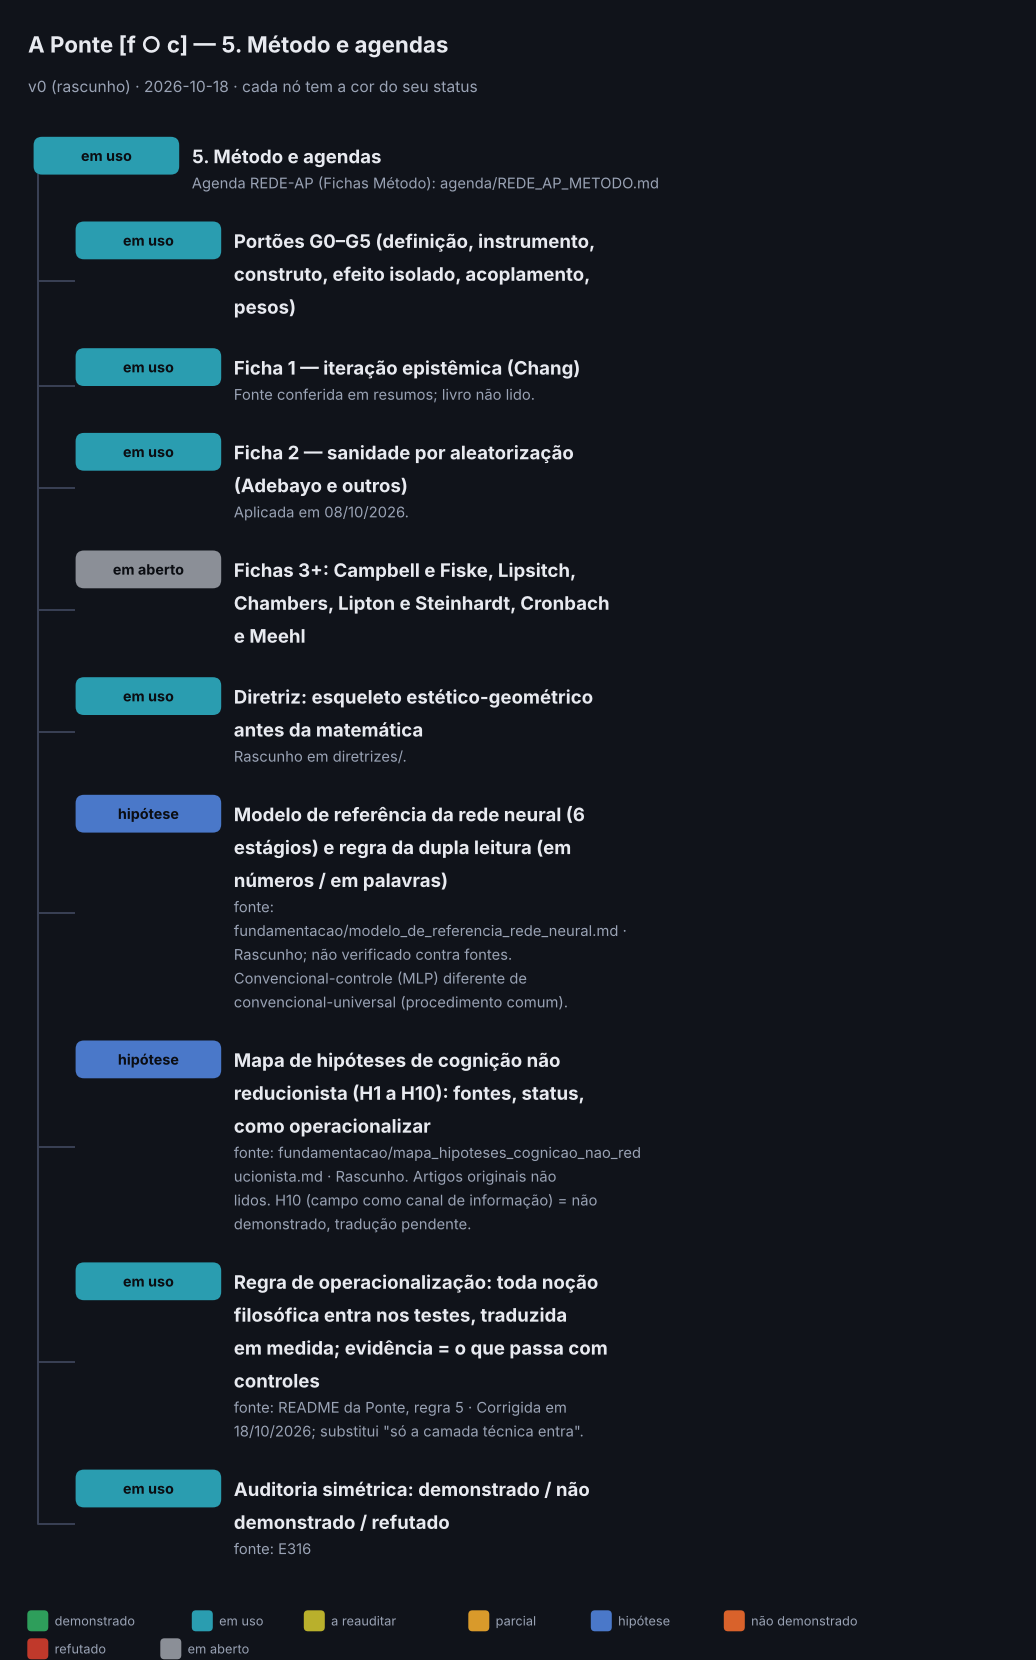
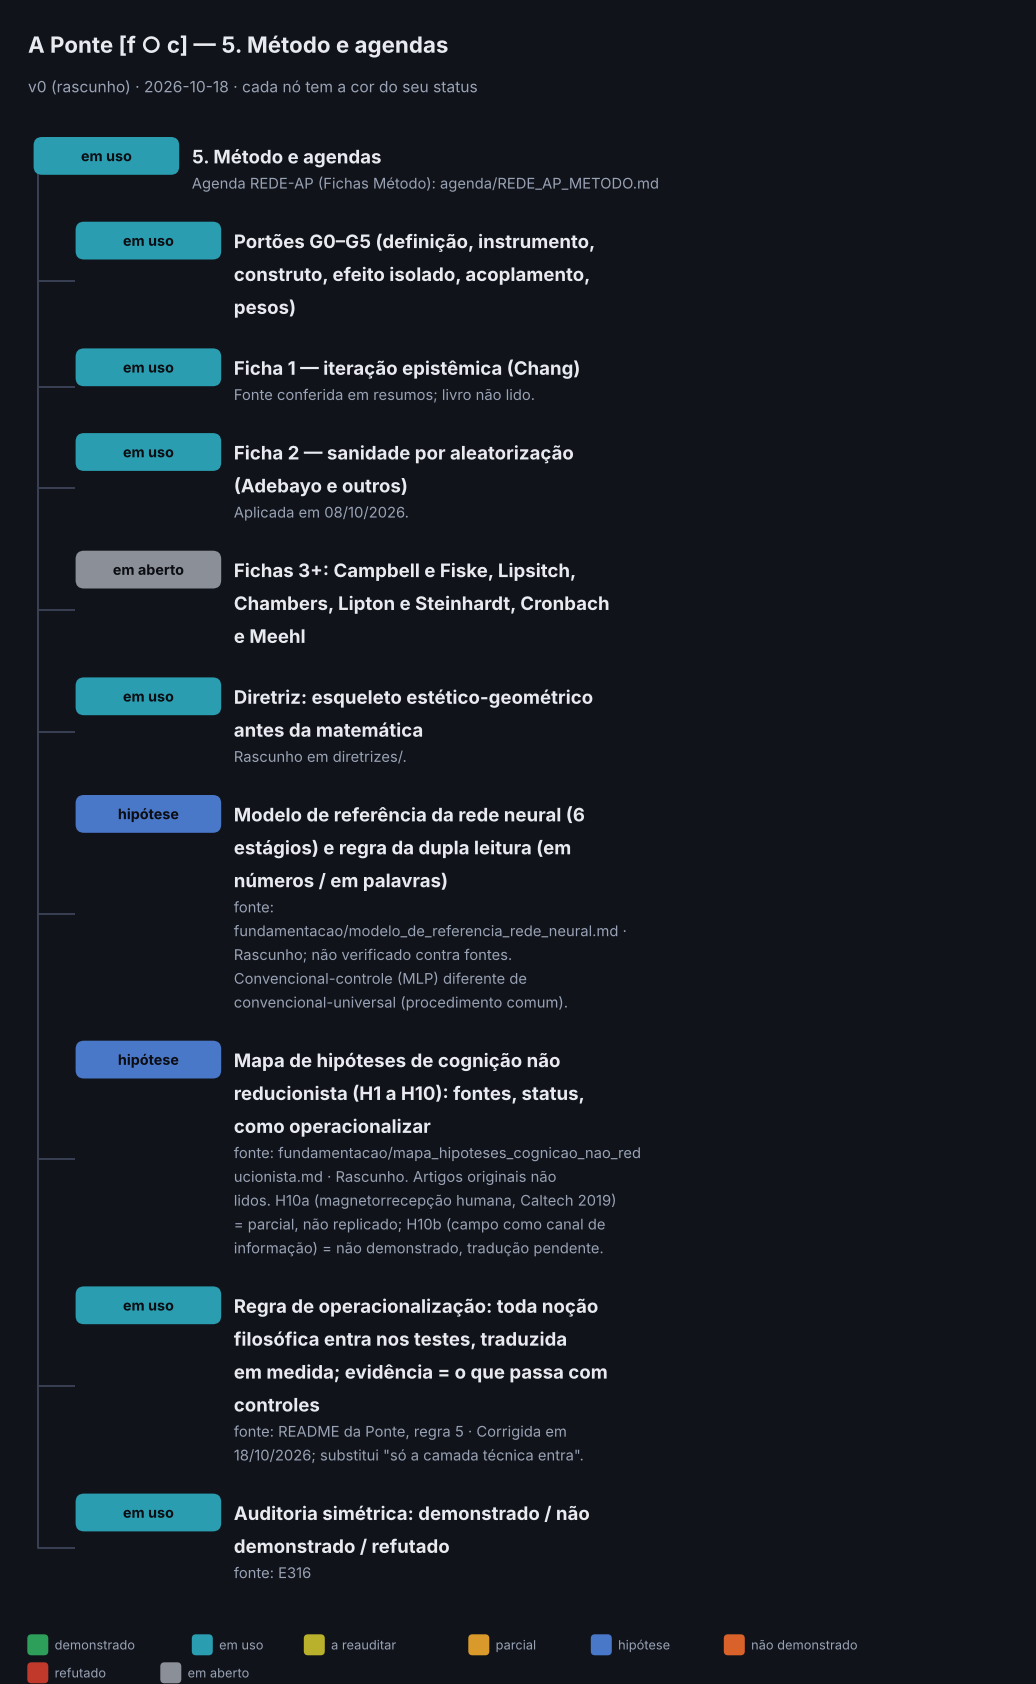
Mapa de hipóteses: H10 dividida em H10a (magnetorrecepção humana, Caltech 2019, parcial e não replicado) e H10b; busca de replicações sem resultado; pendências atualizadas
Claude-Session: https://claude.ai/code/session_01DUzMdkUTqHLsBPxo3q43kY

diff --git a/Ponte/fundamentacao/mapa_hipoteses_cognicao_nao_reducionista.md b/Ponte/fundamentacao/mapa_hipoteses_cognicao_nao_reducionista.md
@@ -1,6 +1,6 @@
 # Mapa de hipóteses: cognição, memória e campo além do cérebro-como-circuito
 
-**Status:** rascunho · **fontes conferidas em resumos de busca; os artigos originais NÃO foram lidos** (como na Ficha 1 do método) · classificação feita pelo assistente, a revisar pelo pesquisador
+**Status:** rascunho (atualizado em 18/10/2026: H10 dividida em H10a e H10b, com a magnetorrecepção da Caltech) · **fontes conferidas em resumos de busca; os artigos originais NÃO foram lidos** (como na Ficha 1 do método) · classificação feita pelo assistente, a revisar pelo pesquisador
 **Data:** 18 de outubro de 2026
 **Origem:** pedido do pesquisador (18/10/2026), depois da discussão sobre memória, campo e reducionismo (Entrada 323 e mensagens seguintes). O pesquisador apontou que o assistente reflete a literatura dominante e que isso pode ser um viés; este mapa responde conferindo fontes, uma a uma.
 **Ligações:** `../README.md` (regra de operacionalização) · `campo_organizador_entre_ambitos.md` · `modelo_de_referencia_rede_neural.md` · Entrada 323.
@@ -98,25 +98,38 @@ Estados usados (a auditoria simétrica do projeto, com dois intermediários):
 - **Status:** **não demonstrado**, com replicações negativas pré-registradas. **Não refutado em geral.**
 - **Fontes:** [Replicação no Goldsmiths](https://research.gold.ac.uk/id/eprint/7055) · [Artigo no PubMed Central](https://pmc.ncbi.nlm.nih.gov/articles/PMC3303812)
 
-### H10. O campo como canal de informação para insights e memórias (a hipótese do pesquisador)
+### H10a. O corpo humano tem receptores de campo ainda não identificados (magnetorrecepção)
+- **Afirma:** o cérebro humano responde a campos magnéticos do tamanho do campo da Terra, o que sugere um transdutor biológico ainda não conhecido (hipótese dos autores: cristais de magnetita biogênica).
+- **Evidência (Wang, Kirschvink, Shimojo e colegas, *eNeuro*, 2019, Caltech e Universidade de Tóquio):** 34 participantes; EEG durante rotações de um campo do tamanho do da Terra. A amplitude do alfa (8 a 13 Hz) **cai** depois de rotações horizontais em sentido **anti-horário**, **somente quando a componente vertical estática aponta para baixo** (a orientação do Hemisfério Norte); **não** houve resposta com a mesma rotação e a vertical para cima, nem com rotação horária, nem com campo fixo. O efeito depende da componente **estática** do campo, o que, segundo os autores, afasta a indução elétrica. Eles testaram o artefato de indução (flutuação de 10 a 40 μV durante a rotação de 100 ms) com experimentos com fantoma e dizem que ele não explica o efeito. O efeito apareceu **só em parte dos participantes**; a "replicação" foi **dentro do próprio estudo**, em quem respondeu forte. O artigo original **não foi lido por inteiro** (a leitura direta falhou na sessão); os detalhes vêm de resumos e da imprensa científica.
+- **Replicação independente:** **não encontrada** em duas buscas (2021 a 2025). **Crítica publicada:** **não encontrada** (só imprensa, que trata o resultado de forma mais forte do que o próprio artigo). Existe uma página do laboratório (Human Magnetic Reception Laboratory, Caltech) e o repositório do Caltech lista material suplementar; **dados abertos não verificados**.
+- **Hipótese de apoio:** magnetita no tecido cerebral humano. Kirschvink e colegas (*PNAS*, 1992) a relataram em tecido de cadáveres. O debate posterior é se ela é biogênica ou poluição de combustão (Maher e colegas, 2016, citado de memória, não conferido); um estudo mais recente (*Scientific Reports*) relata distribuição semelhante em vários cérebros, o que Kirschvink leu como indício contra contaminação simples (detalhes e ano não verificados).
+- **Status:** **parcial, não replicado.** Um indício real e fraco.
+- **O que não mostra:** o resultado é de **detecção de orientação de um campo físico conhecido** (como uma bússola). **Não é um canal de conteúdo** (insight, memória). O alfa cair é uma resposta **inespecífica** a muitos estímulos.
+- **Operacionalizar (proposta):** (a) pedir ou acompanhar uma **replicação independente** com os mesmos controles (direção oposta, vertical para cima, campo fixo, fantoma); (b) usar o **desenho de controle por assimetria** como modelo nos experimentos do projeto; (c) para a rede AP, o análogo é um teste de **sensibilidade direcional** a uma entrada que gira, com o controle de sentido oposto de mesma energia.
+- **Fontes:** [Wang e colegas, *eNeuro* 6(2), 2019](https://www.eneuro.org/content/6/2/ENEURO.0483-18.2019) · [Laboratório de Recepção Magnética Humana (Caltech)](https://maglab.caltech.edu/human-magnetic-reception-laboratory/) · [Registro no repositório do Caltech](https://authors.library.caltech.edu/records/whbb7-57e98) · [Kirschvink e colegas, 1992 (PNAS, PMC)](https://pmc.ncbi.nlm.nih.gov/articles/PMC49775)
+
+### H10b. Existe uma fonte de campo com conteúdo de informação (insight, memória) acessada pelo indivíduo (a hipótese do pesquisador)
 - **Afirma:** do mesmo modo que o Wi-Fi é um campo acessível pelo celular, o indivíduo acessa um campo do qual vêm informações (insight, intuição), mediante predisposição.
-- **Evidência:** **nenhum estudo direto encontrado nesta busca.** A analogia técnica é consistente em si (o Wi-Fi é um campo externo ao aparelho, com fonte e receptor conhecidos); falta o equivalente de **emissor e receptor** para o cérebro. H5 mostra sensibilidade do cérebro a campos fortes; H6 e H9 não sustentam efeitos de campos fracos ou de acesso extracorpóreo.
+- **Evidência:** **nenhum estudo direto encontrado.** A analogia técnica é consistente em si (o Wi-Fi é um campo externo ao aparelho, com fonte e receptor conhecidos). Falta o equivalente de **emissor e de conteúdo** para o caso humano. H5 mostra sensibilidade do cérebro a campos fortes; H10a, um indício de sensibilidade a campos fracos de orientação; H6 e H9 não sustentam efeitos de campos fracos sobre a cognição nem acesso extracorpóreo.
 - **Status:** **não demonstrado; tradução pendente.**
-- **Operacionalizar (proposta, não executada):** (a) estudos com **blindagem** de campos (eletromagnética e magnética) e tarefas de evocação de memória, intuição e resolução de problemas, com controle e avaliação cega; (b) em redes artificiais, **canal de campo** entre unidades, com versão com canal bloqueado como controle; (c) critério de falha escrito antes. Qualquer efeito precisaria ser replicado por terceiros.
+- **Operacionalizar (proposta, não executada):** (a) estudos com **blindagem** de campos e tarefas de evocação de memória, intuição e resolução de problemas, com controle e avaliação cega; (b) em redes artificiais, **canal de campo** entre unidades, com versão com canal bloqueado como controle; (c) critério de falha escrito antes. Qualquer efeito precisaria ser replicado por terceiros.
+- **Formulação precisa do que não está demonstrado:** não há demonstração de acesso à informação **por um canal além dos sentidos conhecidos e sem emissor identificado**. O ser humano já acessa informação extracorpórea pela visão, pela audição e pelo tato.
 
 ---
 
 ## 4. O que o mapa mostra
 
 - As hipóteses que **ampliam o suporte da cognição** dentro do corpo e do ambiente material (H1 a H5) têm literatura publicada, com graus diferentes de evidência. **Não são todas marginais.**
-- As que **atribuem à cognição um canal de informação fora do corpo** (H9, H10) não têm, nesta busca, demonstração; H9 tem replicações negativas pré-registradas.
-- **O ponto de apoio mais firme** para o projeto, por ser demonstrado e mensurável, é H5 (a sensibilidade do cérebro a campos) e a parte parcial de H4 e H3.
+- As que **atribuem à cognição um canal de informação fora do corpo** (H9, H10b) não têm, nesta busca, demonstração; H9 tem replicações negativas pré-registradas.
+- **O ponto de apoio mais firme** para o projeto, por ser demonstrado e mensurável, é H5 (a sensibilidade do cérebro a campos) e a parte parcial de H4, H3 e H10a (magnetorrecepção, não replicada).
 - Esta busca **não esgota** a literatura: foi um conjunto de buscas simples, com fontes em resumo.
 
 ## 5. Itens abertos
 
 - [ ] Ler os artigos originais de H3, H4, H8 e H9 (não lidos).
 - [ ] Buscar meta-análises de H9 e críticas revisadas por pares de H7.
-- [ ] Buscar estudos de blindagem eletromagnética e cognição (H10).
+- [ ] Buscar estudos de blindagem eletromagnética e cognição (H10b).
+- [ ] Ler o artigo da Caltech por inteiro (grupos de resposta, intensidade do campo, câmara de blindagem, tamanho do efeito) e verificar se há dados abertos (H10a).
+- [ ] Buscar replicações da magnetorrecepção humana por EEG em bases de preprints e no PubMed; nesta sessão não apareceu nenhuma.
 - [ ] O pesquisador revisar a classificação e a coluna "operacionalizar".
 - [ ] Decidir se H4 e H7 geram um experimento concreto na rede AP (acoplamento de campo entre unidades, com controle).
